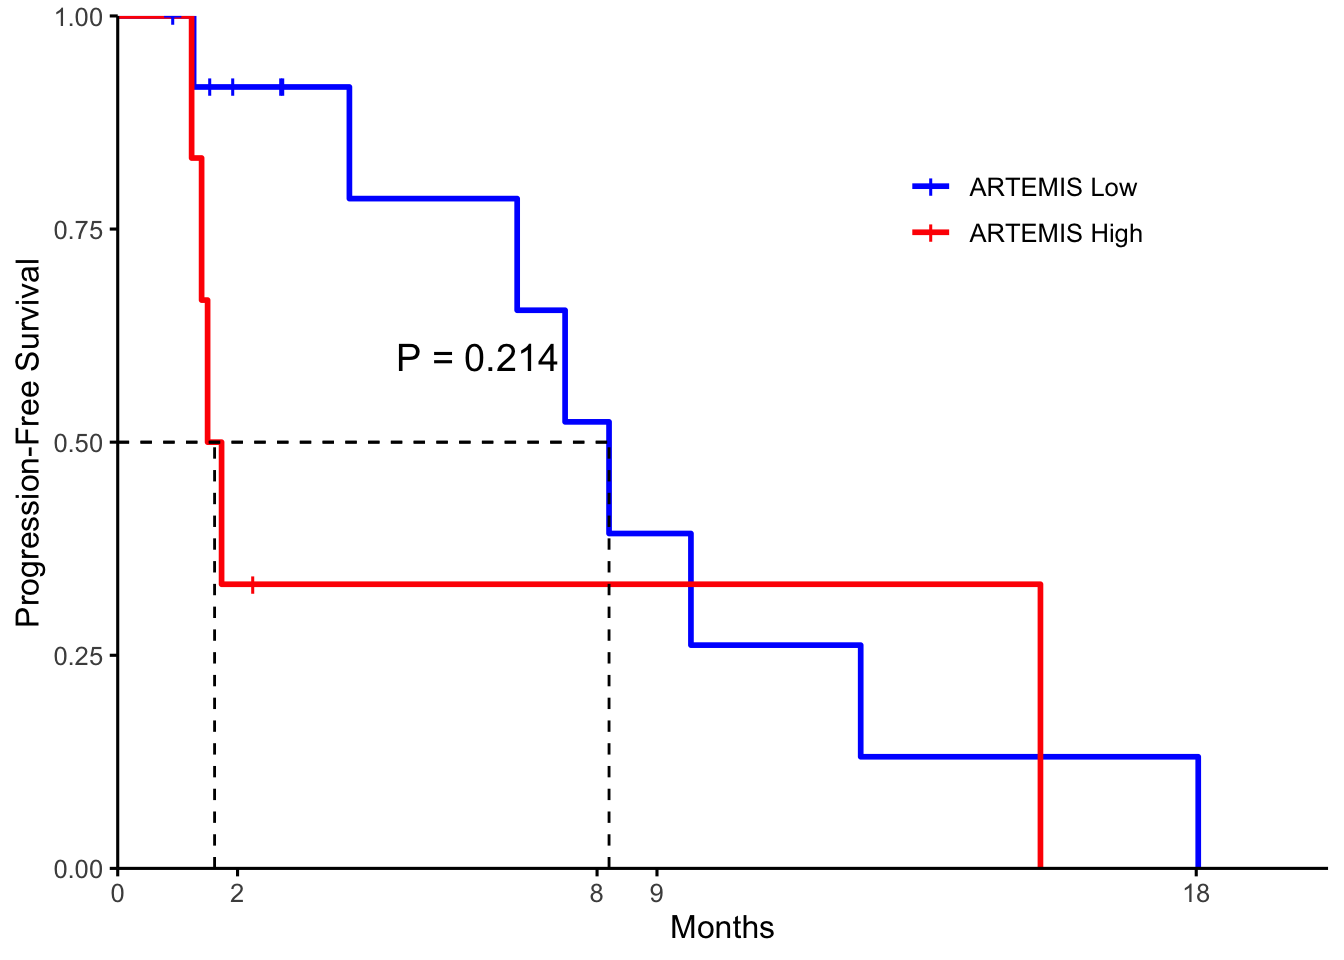
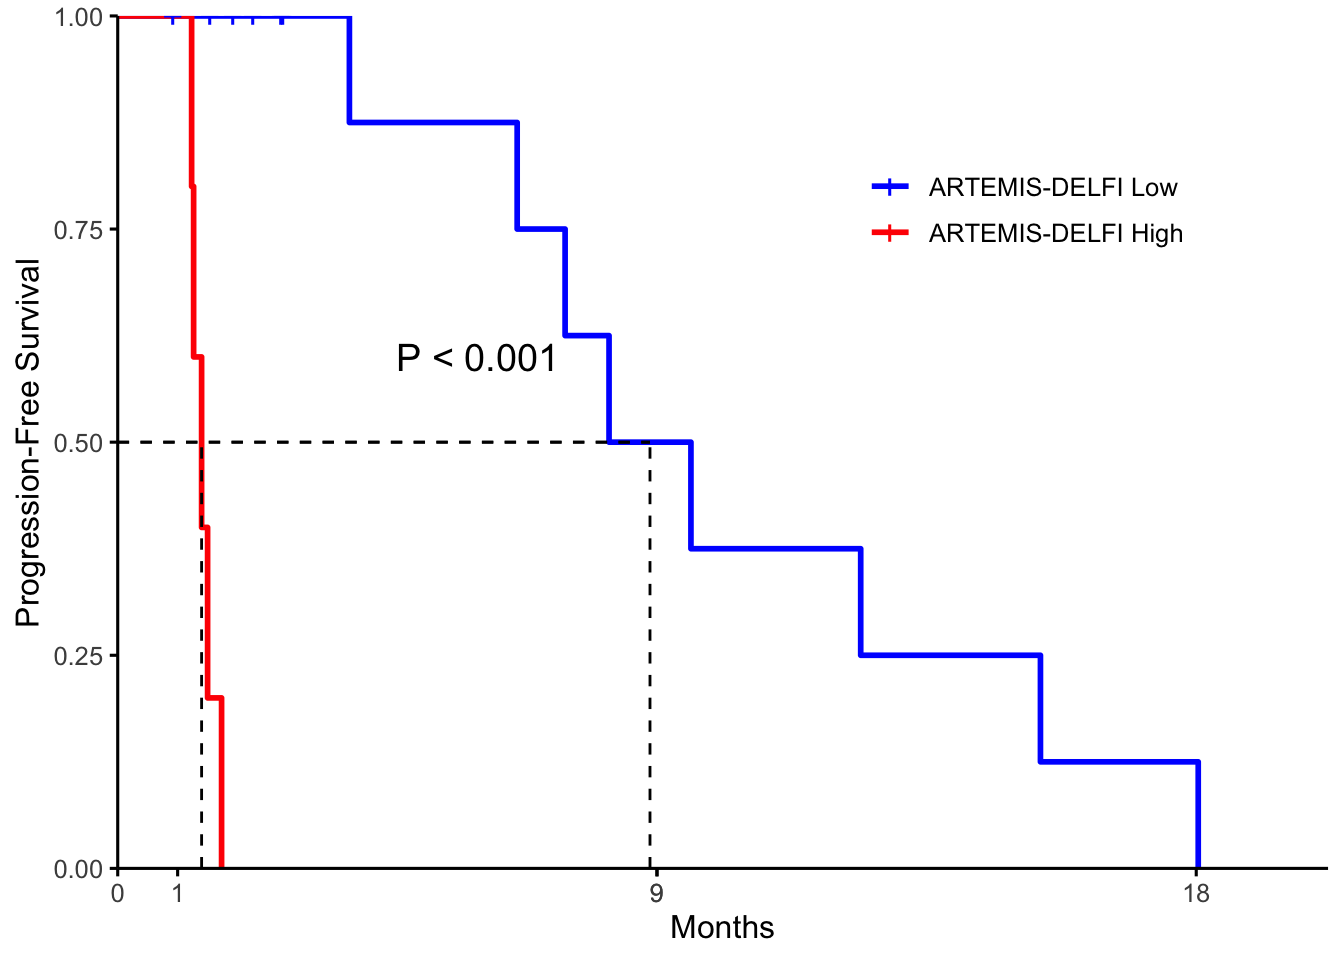
fix rob's changes

diff --git a/docs/figS25.html b/docs/figS25.html
@@ -309,7 +309,7 @@ aria-hidden="true"></span> </a>
 <div class="tab-content">
 <div id="summary" class="tab-pane fade in active">
 <p>
-<strong>Last updated:</strong> 2024-03-08
+<strong>Last updated:</strong> 2024-03-10
 </p>
 <p>
 <strong>Checks:</strong> <span
@@ -443,15 +443,15 @@ project makes it easier to run your code on other machines.</p>
 <div class="panel panel-default">
 <div class="panel-heading">
 <p class="panel-title">
-<a data-toggle="collapse" data-parent="#workflowr-checks" href="#strongRepositoryversionstrongahrefhttpsgithubcomcancergenomicsannapragada2024artemiscodetree09fa07f8f531f18afa741ae561a09ce76939bd87targetblank09fa07fa">
+<a data-toggle="collapse" data-parent="#workflowr-checks" href="#strongRepositoryversionstrongahrefhttpsgithubcomcancergenomicsannapragada2024artemiscodetree46900fd64e161fdac01330fdf401d9e8588ccab1targetblank46900fda">
 <span class="glyphicon glyphicon-ok text-success"
 aria-hidden="true"></span> <strong>Repository version:</strong>
-<a href="https://github.com/cancer-genomics/annapragada2024_artemis_code/tree/09fa07f8f531f18afa741ae561a09ce76939bd87" target="_blank">09fa07f</a>
+<a href="https://github.com/cancer-genomics/annapragada2024_artemis_code/tree/46900fd64e161fdac01330fdf401d9e8588ccab1" target="_blank">46900fd</a>
 </a>
 </p>
 </div>
 <div
[2 lines of base64/hex data omitted]
 class="panel-collapse collapse">
 <div class="panel-body">
 <p>
@@ -461,7 +461,7 @@ reproducibility.
 </p>
 <p>
 The results in this page were generated with repository version
-<a href="https://github.com/cancer-genomics/annapragada2024_artemis_code/tree/09fa07f8f531f18afa741ae561a09ce76939bd87" target="_blank">09fa07f</a>.
+<a href="https://github.com/cancer-genomics/annapragada2024_artemis_code/tree/46900fd64e161fdac01330fdf401d9e8588ccab1" target="_blank">46900fd</a>.
 See the <em>Past versions</em> tab to see a history of the changes made
 to the R Markdown and HTML files.
 </p>
@@ -527,8 +527,6 @@ Ignored files:
     Ignored:    output/
 
 Unstaged changes:
-    Modified:   analysis/Fig5_LUCAS.Rmd
-    Modified:   analysis/figS23_24_lungval.Rmd
     Modified:   analysis/figS25.Rmd
 
 </code></pre>
@@ -579,6 +577,57 @@ Message
 Rmd
 </td>
 <td>
+<a href="https://github.com/cancer-genomics/annapragada2024_artemis_code/blob/46900fd64e161fdac01330fdf401d9e8588ccab1/analysis/figS25.Rmd" target="_blank">46900fd</a>
+</td>
+<td>
+rscharpf
+</td>
+<td>
+2024-03-09
+</td>
+<td>
+Error in line 97,98 of figS25.Rmd
+</td>
+</tr>
+<tr>
+<td>
+Rmd
+</td>
+<td>
+<a href="https://github.com/cancer-genomics/annapragada2024_artemis_code/blob/b30f45903206be0d66a3695ff5ea2e85a0828ee6/analysis/figS25.Rmd" target="_blank">b30f459</a>
+</td>
+<td>
+shay-279
+</td>
+<td>
+2024-03-08
+</td>
+<td>
+small fix locked model
+</td>
+</tr>
+<tr>
+<td>
+html
+</td>
+<td>
+<a href="https://rawcdn.githack.com/cancer-genomics/annapragada2024_artemis_code/b30f45903206be0d66a3695ff5ea2e85a0828ee6/docs/figS25.html" target="_blank">b30f459</a>
+</td>
+<td>
+shay-279
+</td>
+<td>
+2024-03-08
+</td>
+<td>
+small fix locked model
+</td>
+</tr>
+<tr>
+<td>
+Rmd
+</td>
+<td>
 <a href="https://github.com/cancer-genomics/annapragada2024_artemis_code/blob/72def7c50b8b652ee03a2941aba1a9fc235e24ed/analysis/figS25.Rmd" target="_blank">72def7c</a>
 </td>
 <td>
@@ -615,66 +664,22 @@ all code
 </div>
 </div>
 </div>
-<pre class="r"><code>library(here)</code></pre>
-<pre><code>here() starts at /Users/akshayaannapragada/Dropbox/ScannedNotes/VelculescuLab/Cancer Genomics Lab/plasma_repeats/artemis2024</code></pre>
-<pre class="r"><code>library(data.table)
-library(tidyverse)</code></pre>
-<pre><code>── Attaching packages ─────────────────────────────────────── tidyverse 1.3.1 ──</code></pre>
-<pre><code>✔ ggplot2 3.3.5     ✔ purrr   0.3.4
-✔ tibble  3.1.6     ✔ dplyr   1.0.8
-✔ tidyr   1.2.0     ✔ stringr 1.4.0
-✔ readr   2.0.1     ✔ forcats 0.5.1</code></pre>
-<pre><code>── Conflicts ────────────────────────────────────────── tidyverse_conflicts() ──
-✖ dplyr::between()   masks data.table::between()
-✖ dplyr::filter()    masks stats::filter()
-✖ dplyr::first()     masks data.table::first()
-✖ dplyr::lag()       masks stats::lag()
-✖ dplyr::last()      masks data.table::last()
-✖ purrr::transpose() masks data.table::transpose()</code></pre>
-<pre class="r"><code>library(devtools)</code></pre>
-<pre><code>Loading required package: usethis</code></pre>
-<pre class="r"><code>library(ggplot2)
+<pre class="r"><code>library(here)
+library(data.table)
+library(tidyverse)
+library(devtools)
+library(ggplot2)
 library(ggpubr)
-library(cowplot)</code></pre>
-<pre><code>
-Attaching package: &#39;cowplot&#39;</code></pre>
-<pre><code>The following object is masked from &#39;package:ggpubr&#39;:
-
-    get_legend</code></pre>
-<pre class="r"><code>load_all(here(&quot;code&quot;,&quot;useful.stuff.aa&quot;))           # Load</code></pre>
-<pre><code>ℹ Loading useful.stuff.aa</code></pre>
-<pre class="r"><code>library(caret)</code></pre>
-<pre><code>Loading required package: lattice</code></pre>
-<pre><code>
-Attaching package: &#39;caret&#39;</code></pre>
-<pre><code>The following object is masked from &#39;package:purrr&#39;:
-
-    lift</code></pre>
-<pre class="r"><code>library(recipes)</code></pre>
-<pre><code>
-Attaching package: &#39;recipes&#39;</code></pre>
-<pre><code>The following object is masked from &#39;package:devtools&#39;:
-
-    check</code></pre>
-<pre><code>The following object is masked from &#39;package:stringr&#39;:
-
-    fixed</code></pre>
-<pre><code>The following object is masked from &#39;package:stats&#39;:
-
-    step</code></pre>
-<pre class="r"><code>library(pROC)</code></pre>
-<pre><code>Type &#39;citation(&quot;pROC&quot;)&#39; for a citation.</code></pre>
-<pre><code>
-Attaching package: &#39;pROC&#39;</code></pre>
-<pre><code>The following objects are masked from &#39;package:stats&#39;:
-
-    cov, smooth, var</code></pre>
-<pre class="r"><code>library(gbm)</code></pre>
-<pre><code>Loaded gbm 2.1.8</code></pre>
-<pre class="r"><code>library(readxl)
-
-dat&lt;-fread(here(&quot;data&quot;,&quot;Lung_Monitoring&quot;,&quot;lung_dynamics_artemis.csv&quot;))
-#dat&lt;-dat %&gt;% filter(id != &quot;PGDX7348P1_Amended&quot; &amp; id != &quot;PGDX7348P2_Amended&quot;) #something is weird
+library(cowplot)
+load_all(here(&quot;code&quot;,&quot;useful.stuff.aa&quot;))           # Load
+library(caret)
+library(recipes)
+library(pROC)
+library(gbm)
+library(readxl)</code></pre>
+<pre class="r"><code>dat&lt;-fread(here(&quot;data&quot;,&quot;Lung_Monitoring&quot;,&quot;lung_dynamics_artemis.csv&quot;))
+##dat&lt;-dat %&gt;% filter(id != &quot;PGDX7348P1_Amended&quot; &amp; id != &quot;PGDX7348P2_Amended&quot;) #something is weird
+select &lt;- dplyr::select
 dat&lt;-dat %&gt;% select(-V1)
 e&lt;-fread(here(&quot;data&quot;,&quot;Kmer_Distributions&quot;,&quot;Expected.csv&quot;))
 e&lt;-e %&gt;% filter(total_kmers&gt;1000)
@@ -700,10 +705,8 @@ dat&lt;-inner_join(artemis,delfi,by=&quot;id&quot;)
 
 epi&lt;-fread(here(&quot;data&quot;,&quot;Lung_Monitoring&quot;,&quot;lung_dynamics_epi.csv&quot;))
 epi$id&lt;-gsub(&quot;_Amended&quot;,&quot;&quot;,epi$id)
-dat&lt;-inner_join(dat,epi,by=&quot;id&quot;)
-
-
-#These are the models we actually want
+dat&lt;-inner_join(dat,epi,by=&quot;id&quot;)</code></pre>
+<pre class="r"><code>#These are the models we actually want
 model&lt;-readRDS(here(&quot;data&quot;,&quot;Final_LUCAS_Ensemble&quot;,&quot;Locked_Models&quot;,&quot;ARTEMIS_Ensemble.rds&quot;))
 model2&lt;-readRDS(here(&quot;data&quot;,&quot;Mathios_Published&quot;,&quot;model_seq_glm.rds&quot;))
 model3&lt;-readRDS(here(&quot;data&quot;,&quot;Final_LUCAS_Ensemble&quot;,&quot;Locked_Models&quot;,&quot;ARTEMIS_single_DELFI_SSLs_Ensemble.rds&quot;))
@@ -724,9 +727,8 @@ d&lt;-tibble(id=dat$id,Cov_GBM=predict(s1,dat,type=&quot;prob&quot;)$cancer,Rati
           LTR_ssl=predict(s6,dat,type=&quot;prob&quot;)$cancer,SINE_ssl=predict(s7,dat,type=&quot;prob&quot;)$cancer,Sat_ssl=predict(s8,dat,type=&quot;prob&quot;)$cancer,RNA_TE_ssl=predict(s9,dat,type=&quot;prob&quot;)$cancer)
 
 
-meta&lt;-fread(here(&quot;data&quot;,&quot;Plasma_CV_meta_HiSeq.csv&quot;))
-
-#Mathios data had a bunch of unused columns and it only breaks some versions of R and i don&#39;t want to deal with it so now we have a bunch of dummy columns
+meta&lt;-fread(here(&quot;data&quot;,&quot;Plasma_CV_meta_HiSeq.csv&quot;))</code></pre>
+<pre class="r"><code>#Mathios data had a bunch of unused columns and it only breaks some versions of R and i don&#39;t want to deal with it so now we have a bunch of dummy columns
 dat$clinical_nlratio&lt;-NA
 dat$clinical_CRP&lt;-NA
 dat$clinical_cfdna_conc&lt;-NA
@@ -740,15 +742,19 @@ dat$clinical_smokingstatus&lt;-NA
 dat$clinical_COPD&lt;-NA
 dat$multinucratio&lt;-NA
 
-scores&lt;-tibble(Artemis_Score=predict(model,d %&gt;% select(LINE_ssl,LTR_ssl,SINE_ssl,Sat_ssl,RNA_TE_ssl,Epi_ssl),type=&quot;prob&quot;)$cancer,
-    id=dat$id,
-    delfi_score=predict(model2,dat,type=&quot;prob&quot;)$cancer)</code></pre>
+artemis.newdata &lt;- d %&gt;% select(LINE_ssl,LTR_ssl,SINE_ssl,Sat_ssl,RNA_TE_ssl,Epi_ssl)
+predictions.artemis &lt;- predict(model, artemis.newdata, type=&quot;prob&quot;)
+predictions.delfi &lt;- predict(model2, dat, type=&quot;prob&quot;)</code></pre>
 <pre><code>Warning:  There was 1 column that was a factor when the recipe was prepped:
  &#39;clinical_smokingstatus&#39;.
  This may cause errors when processing new data.</code></pre>
 <pre><code>Warning: &#39;keep_original_cols&#39; was added to `step_pca()` after this recipe was created.
 Regenerate your recipe to avoid this warning.</code></pre>
-<pre class="r"><code>d&lt;-inner_join(d,scores,by=&quot;id&quot;)
+<pre class="r"><code>scores&lt;-tibble(Artemis_Score=predictions.artemis$cancer,
+    id=dat$id,
+    delfi_score=predictions.delfi$cancer)
+
+d&lt;-inner_join(d,scores,by=&quot;id&quot;)
 d$combo_score&lt;-predict(model3,d %&gt;% select(Artemis_Score,Ratios_ssl,Cov_GBM,zscores_ssl),type=&quot;prob&quot;)$cancer
 d&lt;-d %&gt;% select(id,Artemis_Score,delfi_score,combo_score)
 data1&lt;-fread(here(&quot;data&quot;,&quot;Lung_Monitoring&quot;,&quot;meta2.csv&quot;))
@@ -839,7 +845,7 @@ fig &lt;- ggsurvplot(fit, data = d,
            ## or brewer color (e.g.: &quot;Dark2&quot;), or ggsci color (e.g.: &quot;jco&quot;)
            ##palette = c(&quot;#E7B800&quot;, &quot;#2E9FDF&quot;),
            legend=c(0.75, 0.8),
-           legend.title=&quot;&quot;, 
+           legend.title=&quot;&quot;,
            palette=c(&quot;blue&quot;, &quot;red&quot;),
            legend.labs=c(&quot;ARTEMIS Low&quot;, &quot;ARTEMIS High&quot;),
            ##legend.labs=labels,
@@ -869,44 +875,7 @@ replace the existing scale.</code></pre>
                                 size=5)
   a&lt;-fig$plot
   a</code></pre>
-<p><img src="figure/figS25.Rmd/unnamed-chunk-2-1.png" width="672" style="display: block; margin: auto;" /></p>
-<p>
-<button type="button" class="btn btn-default btn-xs btn-workflowr btn-workflowr-fig" data-toggle="collapse" data-target="#fig-unnamed-chunk-2-1">
-Past versions of unnamed-chunk-2-1.png
-</button>
-</p>
-<div id="fig-unnamed-chunk-2-1" class="collapse">
-<div class="table-responsive">
-<table class="table table-condensed table-hover">
-<thead>
-<tr>
-<th>
-Version
-</th>
-<th>
-Author
-</th>
-<th>
-Date
-</th>
-</tr>
-</thead>
-<tbody>
-<tr>
-<td>
-<a href="https://github.com/cancer-genomics/annapragada2024_artemis_code/blob/72def7c50b8b652ee03a2941aba1a9fc235e24ed/docs/figure/figS25.Rmd/unnamed-chunk-2-1.png" target="_blank">72def7c</a>
-</td>
-<td>
-shay-279
-</td>
-<td>
-2023-12-22
-</td>
-</tr>
-</tbody>
-</table>
-</div>
-</div>
+<p><img src="figure/figS25.Rmd/unnamed-chunk-1-1.png" width="672" style="display: block; margin: auto;" /></p>
 <pre class="r"><code>overall_1&lt;-a+ggtitle(&quot;ARTEMIS Score&quot;)+theme(plot.title = element_text(hjust = 0.5))</code></pre>
 <pre class="r"><code>PFS&lt;-read_xlsx(here(&quot;data&quot;,&quot;Lung_Monitoring&quot;,&quot;PFS.xlsx&quot;))
 
@@ -958,7 +927,7 @@ fig &lt;- ggsurvplot(fit, data = d,
            ## or brewer color (e.g.: &quot;Dark2&quot;), or ggsci color (e.g.: &quot;jco&quot;)
            ##palette = c(&quot;#E7B800&quot;, &quot;#2E9FDF&quot;),
            legend=c(0.75, 0.8),
-           legend.title=&quot;&quot;, 
+           legend.title=&quot;&quot;,
            palette=c(&quot;blue&quot;, &quot;red&quot;),
            legend.labs=c(&quot;ARTEMIS-DELFI Low&quot;, &quot;ARTEMIS-DELFI High&quot;),
            ##legend.labs=labels,
@@ -985,13 +954,13 @@ replace the existing scale.</code></pre>
                                 size=5)
   a&lt;-fig$plot
   a</code></pre>
-<p><img src="figure/figS25.Rmd/unnamed-chunk-3-1.png" width="672" style="display: block; margin: auto;" /></p>
+<p><img src="figure/figS25.Rmd/unnamed-chunk-2-1.png" width="672" style="display: block; margin: auto;" /></p>
 <p>
-<button type="button" class="btn btn-default btn-xs btn-workflowr btn-workflowr-fig" data-toggle="collapse" data-target="#fig-unnamed-chunk-3-1">
-Past versions of unnamed-chunk-3-1.png
+<button type="button" class="btn btn-default btn-xs btn-workflowr btn-workflowr-fig" data-toggle="collapse" data-target="#fig-unnamed-chunk-2-1">
+Past versions of unnamed-chunk-2-1.png
 </button>
 </p>
-<div id="fig-unnamed-chunk-3-1" class="collapse">
+<div id="fig-unnamed-chunk-2-1" class="collapse">
 <div class="table-responsive">
 <table class="table table-condensed table-hover">
 <thead>
@@ -1010,7 +979,7 @@ Date
 <tbody>
 <tr>
 <td>
-<a href="https://github.com/cancer-genomics/annapragada2024_artemis_code/blob/72def7c50b8b652ee03a2941aba1a9fc235e24ed/docs/figure/figS25.Rmd/unnamed-chunk-3-1.png" target="_blank">72def7c</a>
+<a href="https://github.com/cancer-genomics/annapragada2024_artemis_code/blob/72def7c50b8b652ee03a2941aba1a9fc235e24ed/docs/figure/figS25.Rmd/unnamed-chunk-2-1.png" target="_blank">72def7c</a>
 </td>
 <td>
 shay-279
@@ -1074,7 +1043,7 @@ fig &lt;- ggsurvplot(fit, data = d,
            ## or brewer color (e.g.: &quot;Dark2&quot;), or ggsci color (e.g.: &quot;jco&quot;)
            ##palette = c(&quot;#E7B800&quot;, &quot;#2E9FDF&quot;),
            legend=c(0.75, 0.8),
-           legend.title=&quot;&quot;, 
+           legend.title=&quot;&quot;,
            palette=c(&quot;blue&quot;, &quot;red&quot;),
            legend.labs=c(&quot;DELFI Low&quot;, &quot;DELFI High&quot;),
            ##legend.labs=labels,
@@ -1101,13 +1070,13 @@ replace the existing scale.</code></pre>
                                 size=5)
   a&lt;-fig$plot
   a</code></pre>
-<p><img src="figure/figS25.Rmd/unnamed-chunk-4-1.png" width="672" style="display: block; margin: auto;" /></p>
+<p><img src="figure/figS25.Rmd/unnamed-chunk-3-1.png" width="672" style="display: block; margin: auto;" /></p>
 <p>
-<button type="button" class="btn btn-default btn-xs btn-workflowr btn-workflowr-fig" data-toggle="collapse" data-target="#fig-unnamed-chunk-4-1">
-Past versions of unnamed-chunk-4-1.png
+<button type="button" class="btn btn-default btn-xs btn-workflowr btn-workflowr-fig" data-toggle="collapse" data-target="#fig-unnamed-chunk-3-1">
+Past versions of unnamed-chunk-3-1.png
 </button>
 </p>
-<div id="fig-unnamed-chunk-4-1" class="collapse">
+<div id="fig-unnamed-chunk-3-1" class="collapse">
 <div class="table-responsive">
 <table class="table table-condensed table-hover">
 <thead>
@@ -1126,7 +1095,7 @@ Date
 <tbody>
 <tr>
 <td>
-<a href="https://github.com/cancer-genomics/annapragada2024_artemis_code/blob/72def7c50b8b652ee03a2941aba1a9fc235e24ed/docs/figure/figS25.Rmd/unnamed-chunk-4-1.png" target="_blank">72def7c</a>
+<a href="https://github.com/cancer-genomics/annapragada2024_artemis_code/blob/72def7c50b8b652ee03a2941aba1a9fc235e24ed/docs/figure/figS25.Rmd/unnamed-chunk-3-1.png" target="_blank">72def7c</a>
 </td>
 <td>
 shay-279
